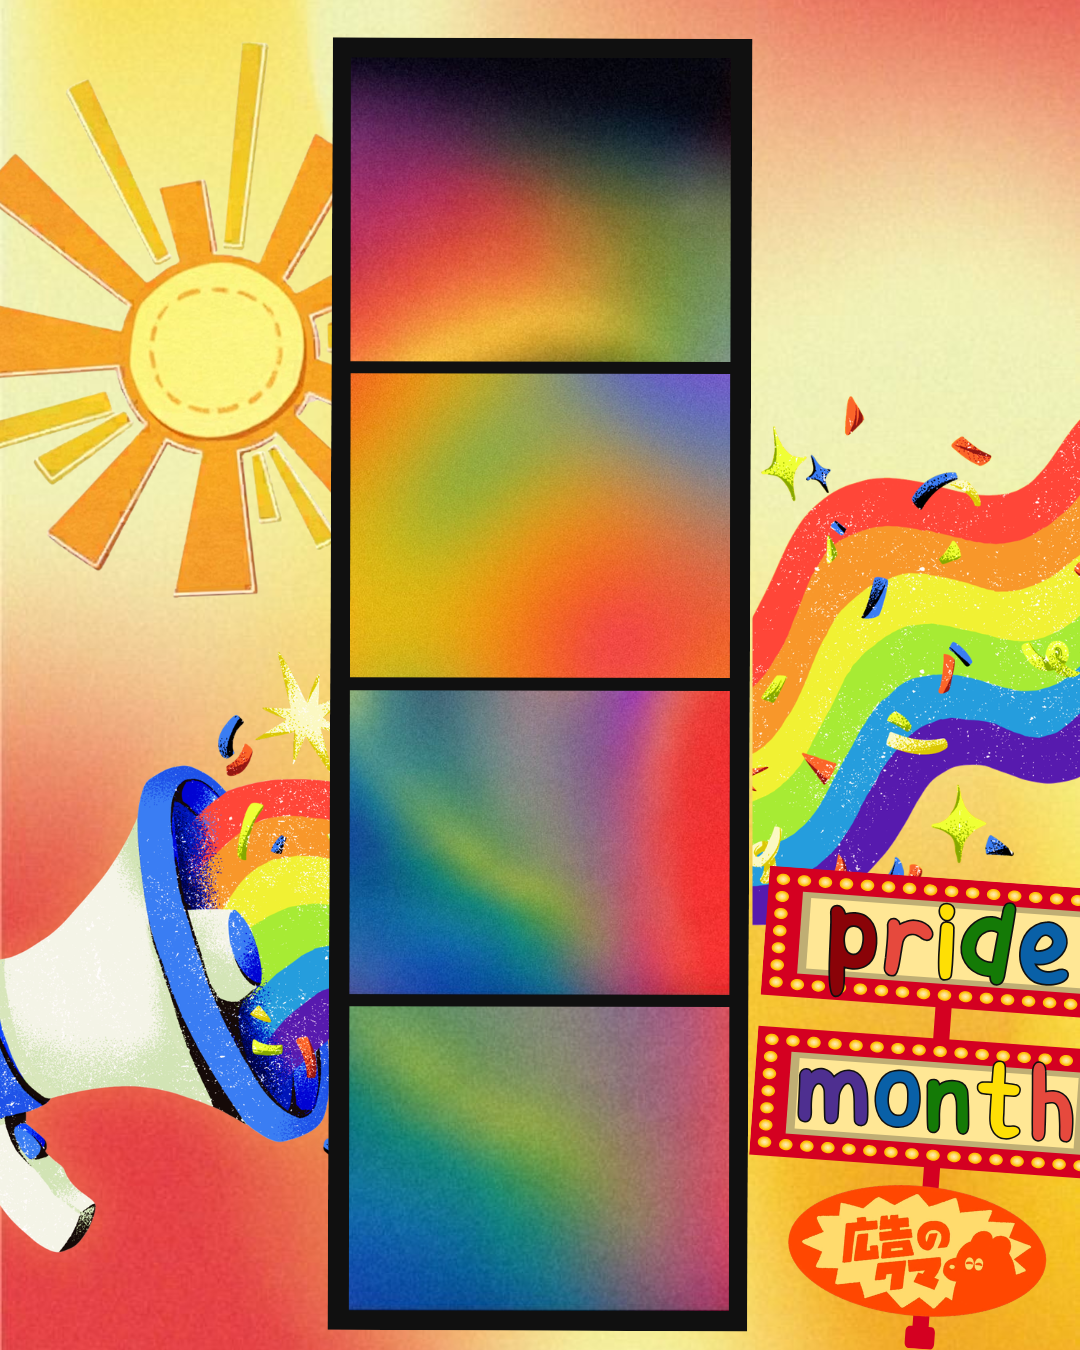
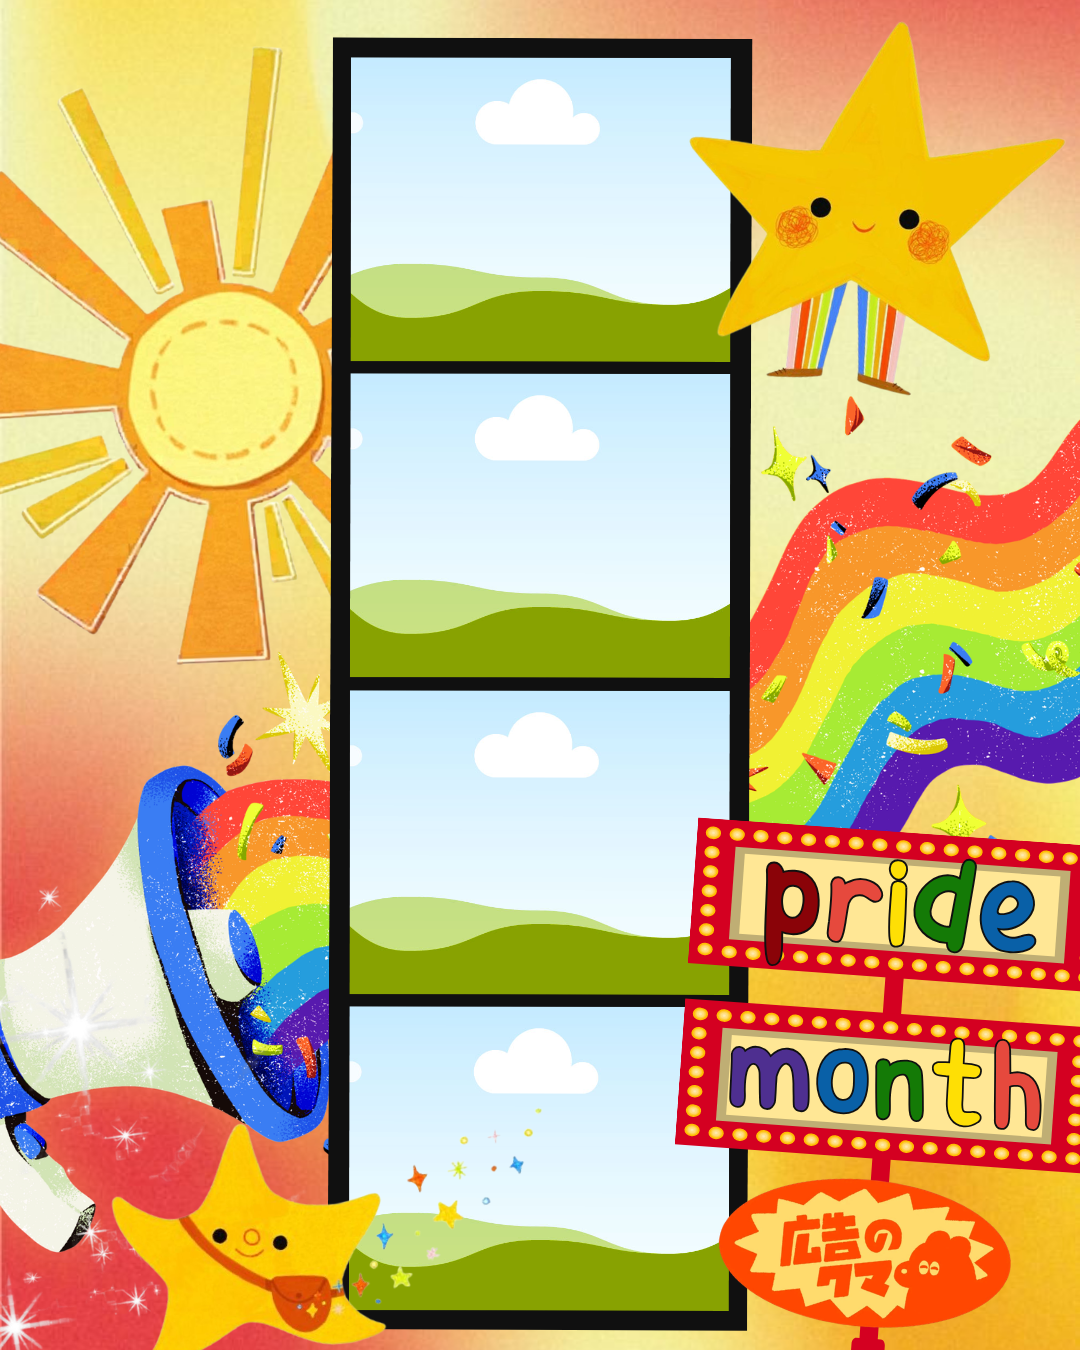
Add new photo booth frames

diff --git a/index.html b/index.html
@@ -477,21 +477,27 @@ function makeImageFrame(name,src,slotRects,overlaySrc){
   let ov=null;
   if(overlaySrc){ov=new Image();ov.src=overlaySrc;
     ov.onload=()=>{if(typeof redrawPreviews==="function")redrawPreviews();};}
+  function mapSlot(s){
+    const sw=s.baseW||1080, sh=s.baseH||1350;
+    return {x:s.x/sw*W,y:s.y/sh*H,w:s.w/sw*W,h:s.h/sh*H,r:s.r||2};
+  }
   return {name, img:im, ovImg:ov, slots:slotRects,
     render(ctx,photos){
       if(im.complete&&im.naturalWidth){ctx.drawImage(im,0,0,W,H);}
       else{const g=ctx.createLinearGradient(0,0,0,H);g.addColorStop(0,"#2a2a36");g.addColorStop(1,"#15151d");
         ctx.fillStyle=g;ctx.fillRect(0,0,W,H);ctx.fillStyle="#777";ctx.font="28px sans-serif";
         ctx.textAlign="center";ctx.fillText("กำลังโหลดรูปกรอบ…",W/2,H/2);ctx.fillText("(วางไฟล์ใน assets/)",W/2,H/2+40);}
-      slotRects.forEach((s,i)=>{
-        const ph=photos&&photos[i];if(!ph)return;          // ไม่มีรูป = โชว์ภาพต้นฉบับในช่อง
-        ctx.save();rr(ctx,s.x,s.y,s.w,s.h,2);ctx.clip();
+      slotRects.forEach((raw,i)=>{
+        const ph=photos&&photos.length?photos[i%photos.length]:null;if(!ph)return;
+        const s=mapSlot(raw);
+        ctx.save();rr(ctx,s.x,s.y,s.w,s.h,s.r);ctx.clip();
         coverDraw(ctx,ph,s.x,s.y,s.w,s.h);ctx.restore();
       });
       // วาดองค์ประกอบที่ต้องอยู่ "บน" รูป (เช่น สติกเกอร์หัวใจที่ล้ำเข้าช่อง)
       if(ov&&ov.complete&&ov.naturalWidth)ctx.drawImage(ov,0,0,W,H);
     }};
 }
+const srcFrame = (x,y,w,h,r=2)=>({x,y,w,h,r,baseW:1333,baseH:1999});
 
 const FRAMES=[
   {name:"ม่านแดง 🎭", render:renderCurtain},
@@ -508,6 +514,27 @@ const FRAMES=[
     {x:373,y:681, w:330,h:289},
     {x:373,y:983, w:330,h:289},
   ],"assets/overlay-pride2.png"),
+  makeImageFrame("Cutie Pride ⭐","assets/frame-pride3.png",[
+    srcFrame(10,54,590,590,34),
+    srcFrame(14,706,610,520,34),
+    srcFrame(10,1338,600,520,34),
+    srcFrame(684,310,570,500,34),
+    srcFrame(684,874,570,500,34),
+    srcFrame(684,1438,570,500,34),
+  ]),
+  makeImageFrame("Wonderland 🐇","assets/frame-pride4.png",[
+    srcFrame(272,205,800,482,2),
+    srcFrame(272,738,800,485,2),
+    srcFrame(272,1280,800,480,2),
+  ]),
+  makeImageFrame("Pastel Heart 💚","assets/frame-pride5.png",[
+    srcFrame(40,187,525,535,38),
+    srcFrame(40,735,525,535,38),
+    srcFrame(40,1282,525,535,38),
+    srcFrame(714,419,527,450,2),
+    srcFrame(714,956,527,450,2),
+    srcFrame(714,1488,527,320,2),
+  ]),
 ];
 function drawStrip(canvas,frame,photos){
   canvas.width=W;canvas.height=H;frame.render(canvas.getContext("2d"),photos);